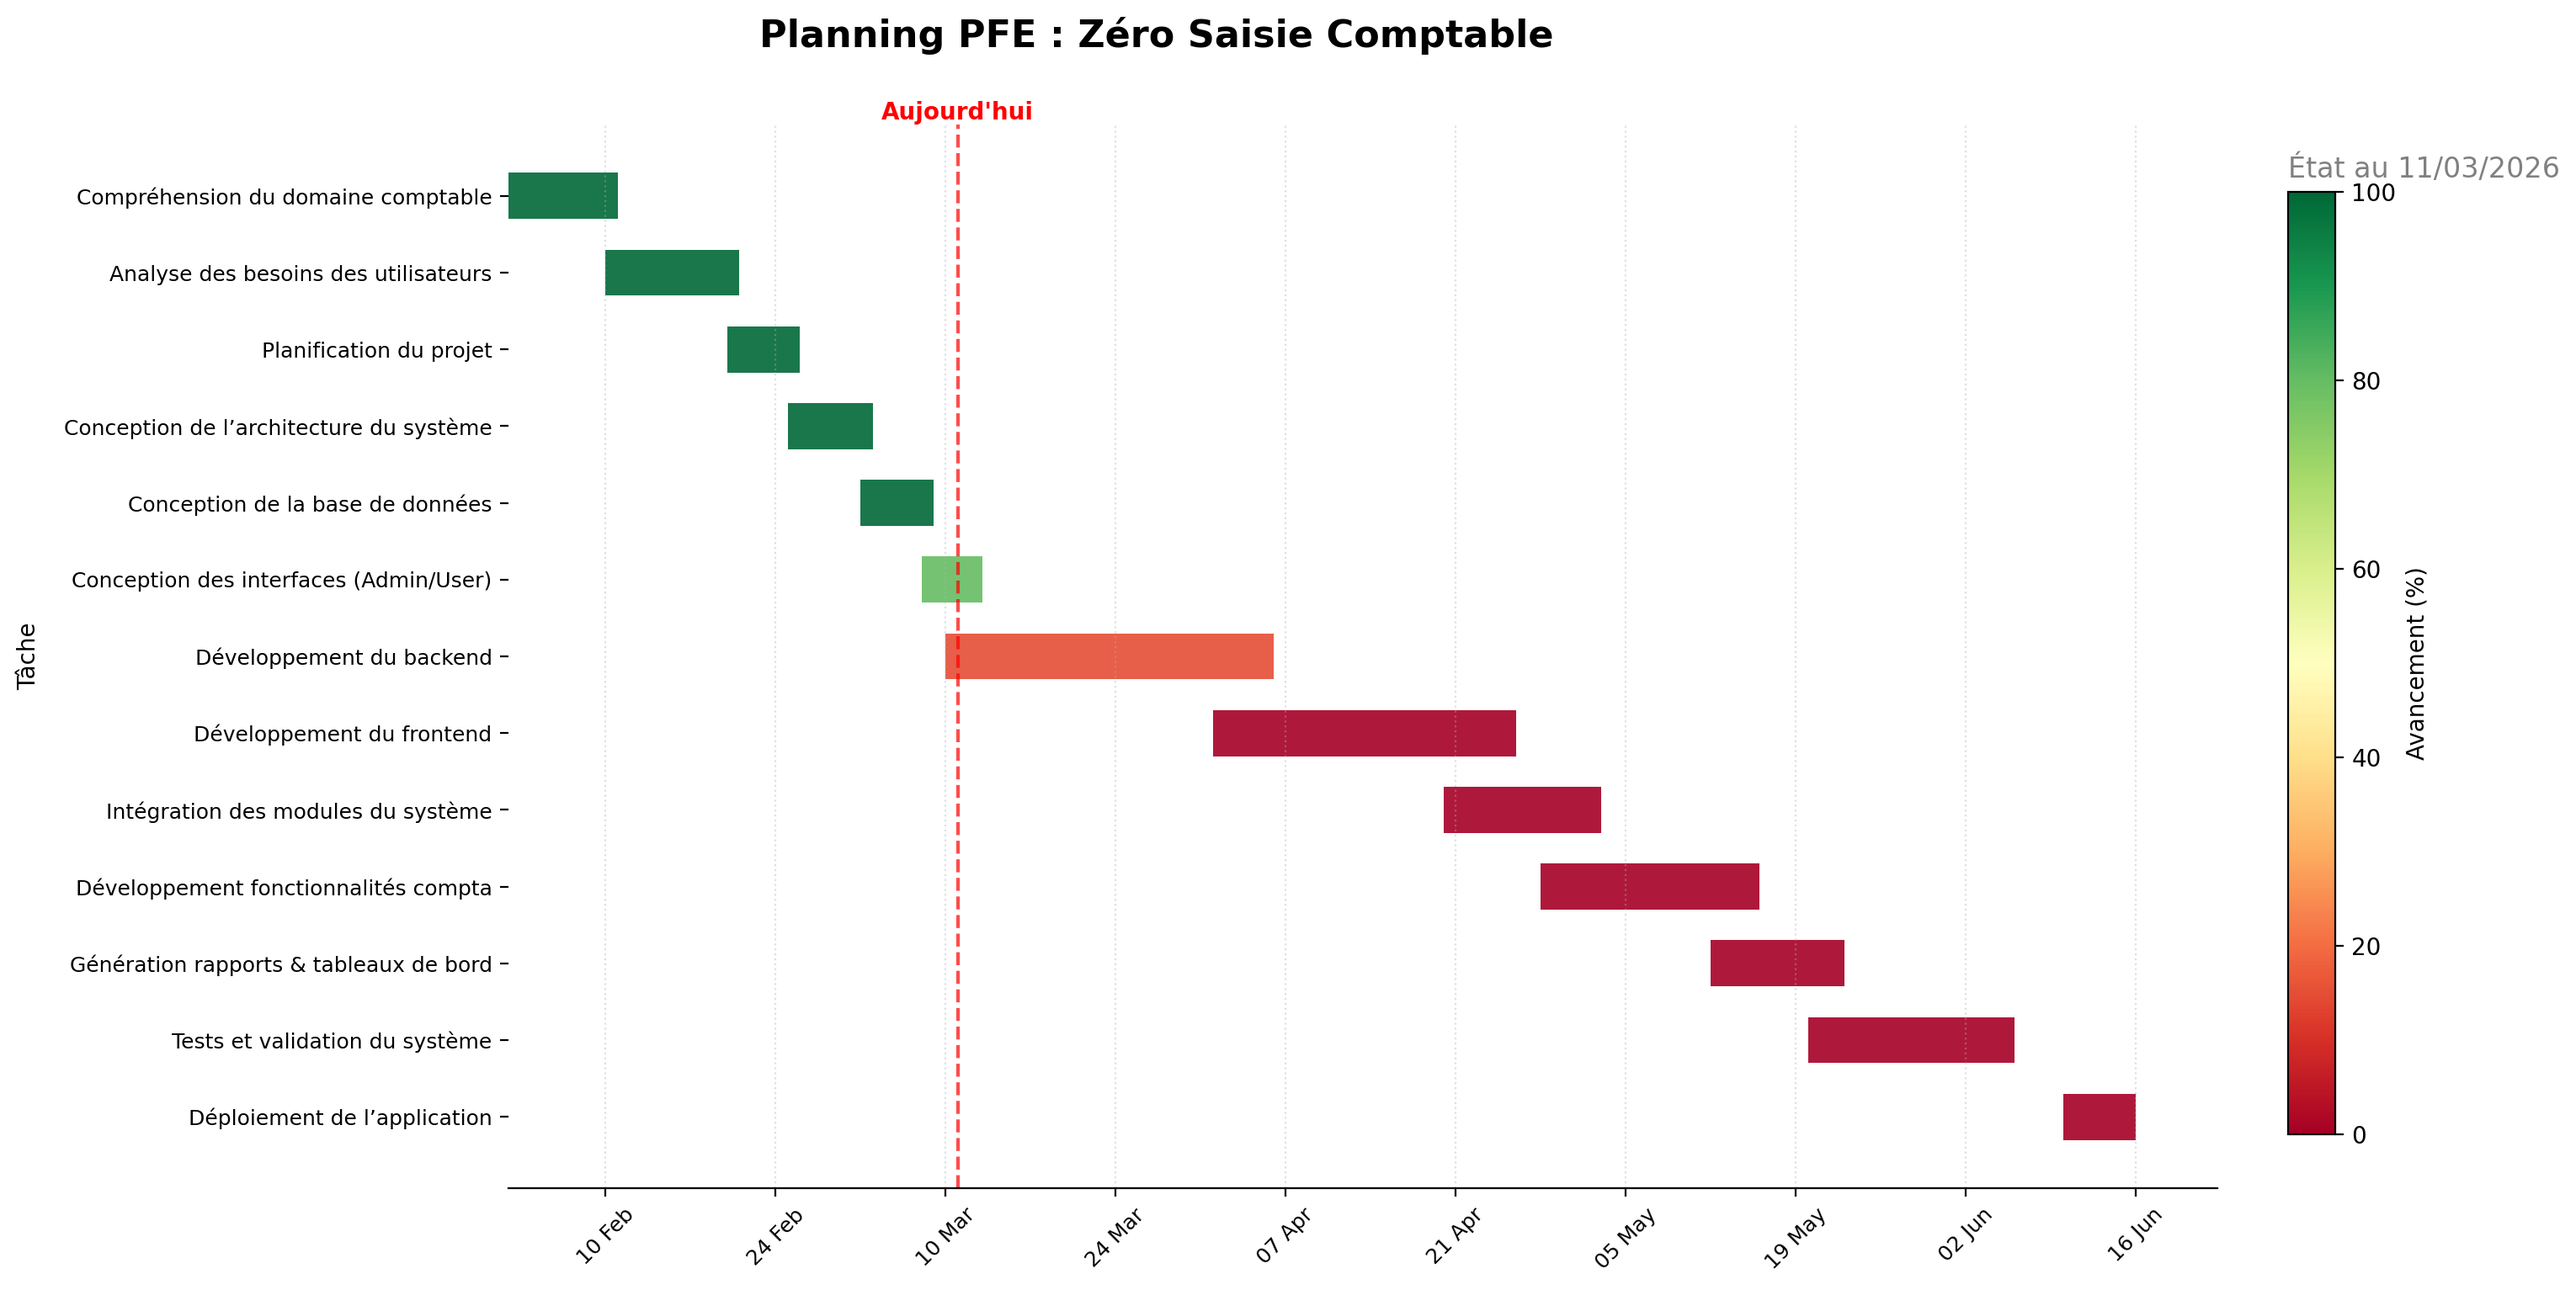
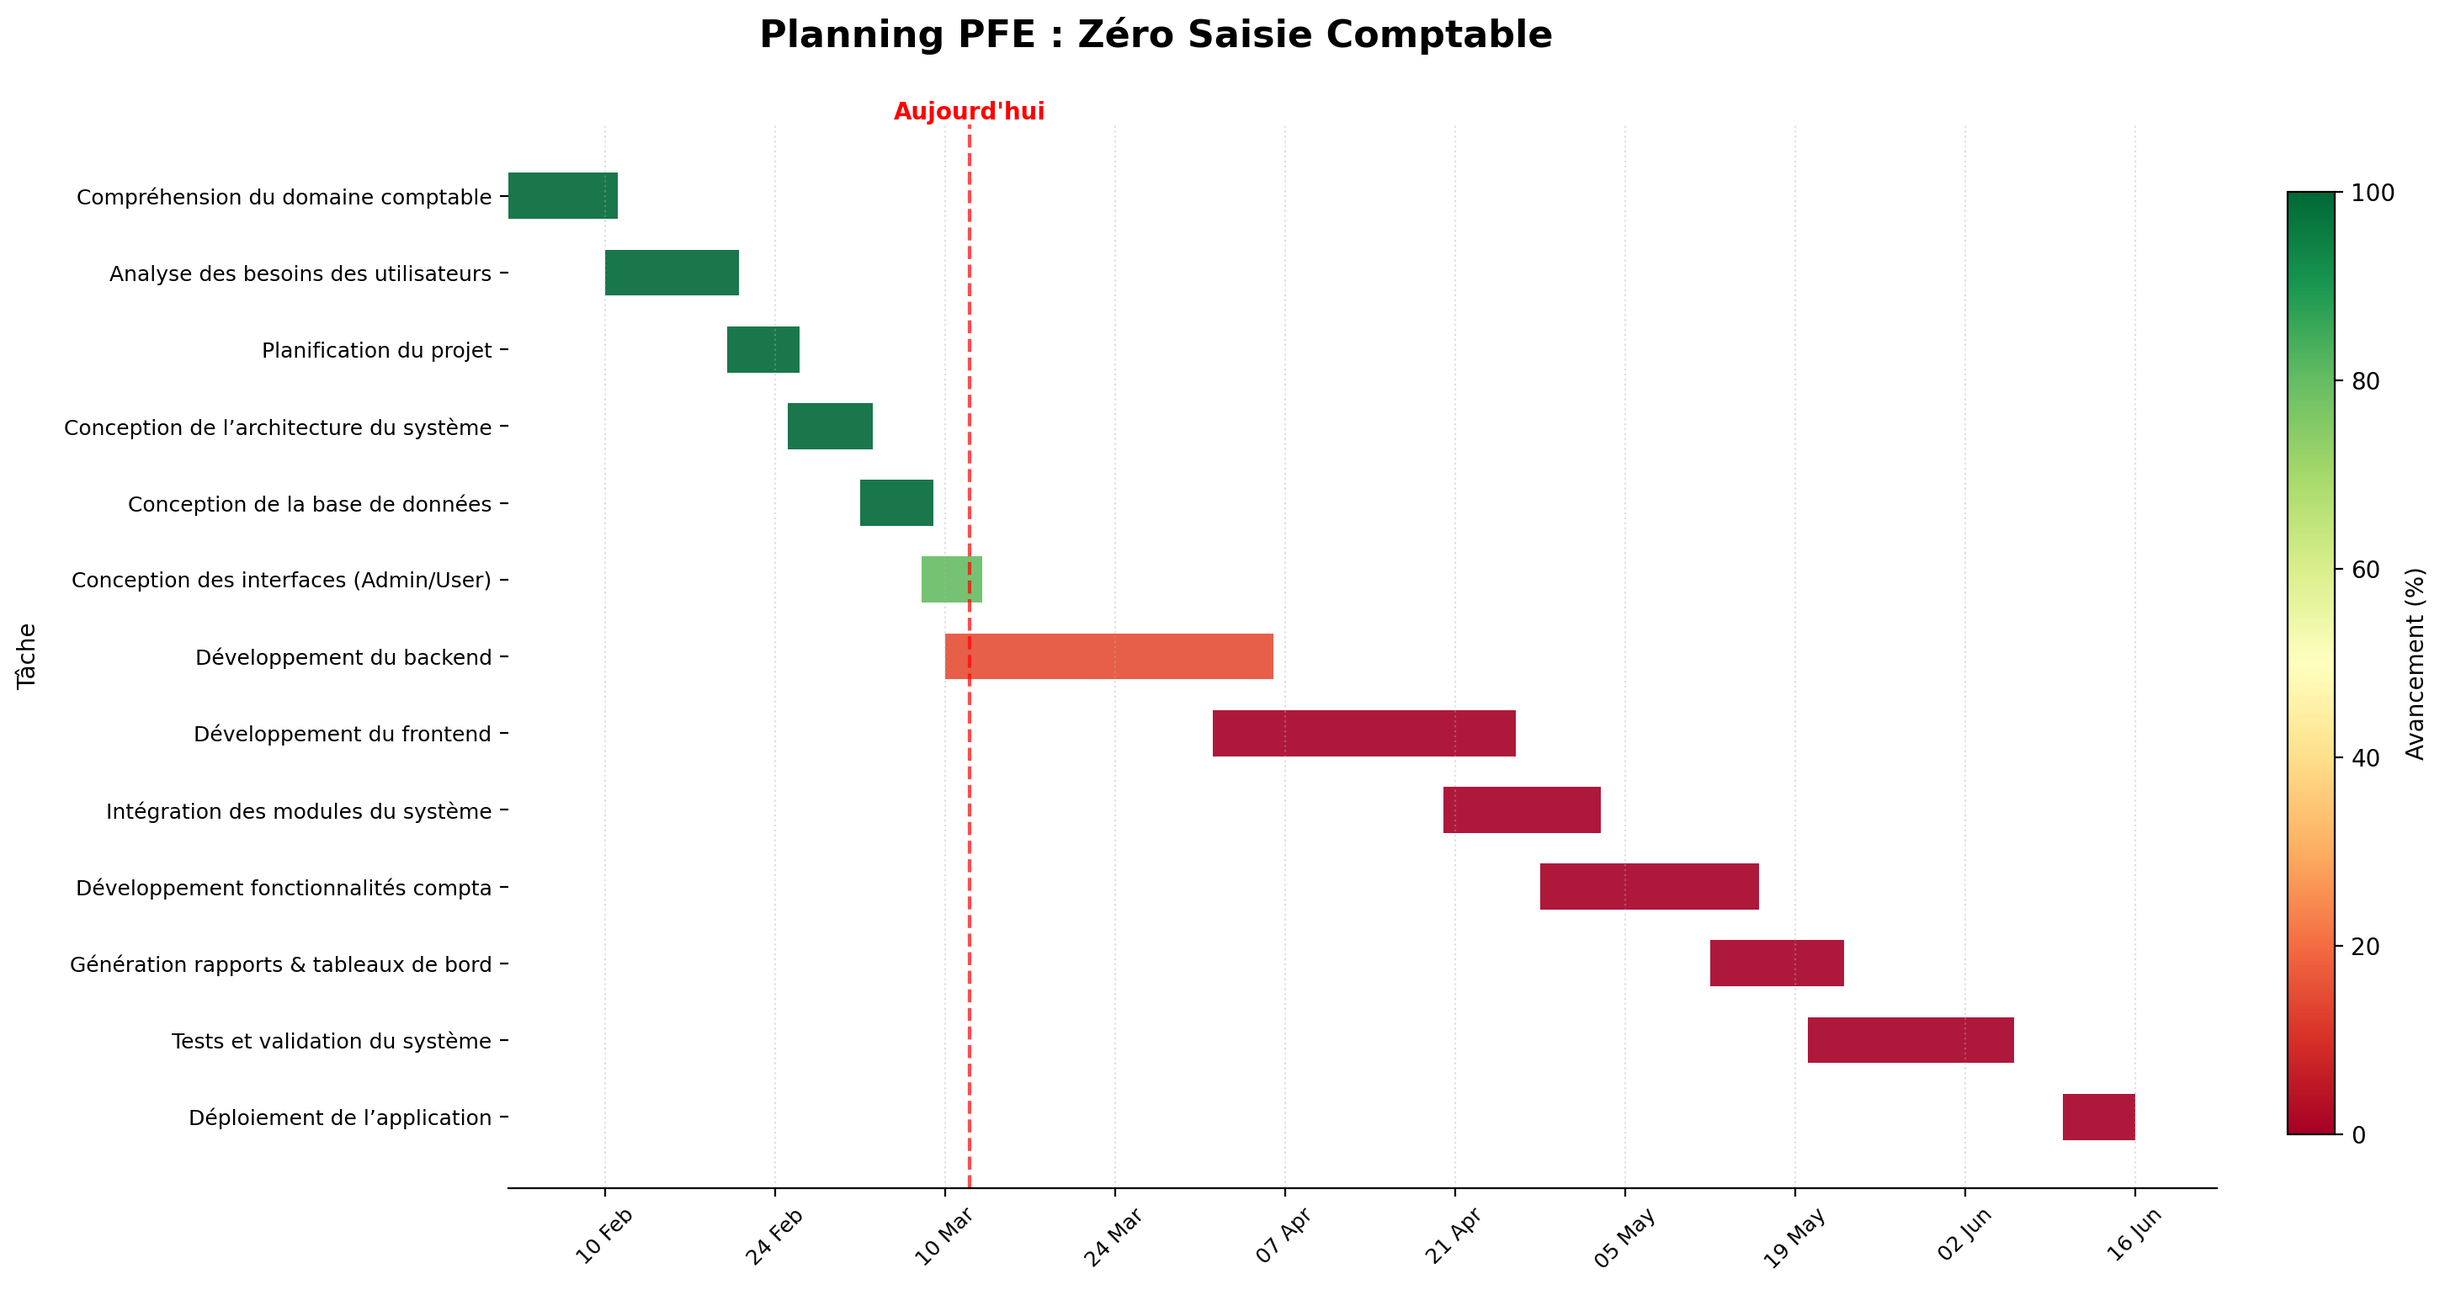
diagramme de gantt modifie

diff --git a/gantt_pfe.py b/gantt_pfe.py
@@ -1,7 +1,7 @@
 """
 Diagramme de Gantt — PFE Zéro Saisie Comptable
 Design : Heatmap de progression (Rouge -> Jaune -> Vert)
-Mise à jour : 11/03/2026
+Mise à jour : 12/03/2026
 """
 
 import matplotlib.pyplot as plt
@@ -11,7 +11,7 @@ import matplotlib.colors as mcolors
 from datetime import date, timedelta
 
 # ── CONFIG ────────────────────────────────────────────────────────────────
-TODAY = date(2026, 3, 11)  # <--- AUJOURD'HUI
+TODAY = date(2026, 3, 12)  # <--- AUJOURD'HUI
 START = date(2026, 2, 2)
 END   = date(2026, 6, 20)
 
@@ -89,7 +89,7 @@ ax.spines['right'].set_visible(False)
 ax.spines['left'].set_visible(False)
 
 plt.suptitle("Planning PFE : Zéro Saisie Comptable", fontsize=16, fontweight='bold', x=0.4)
-plt.title(f"État au {TODAY.strftime('%d/%m/%Y')}", fontsize=12, color='grey', loc='left')
+
 
 # Sauvegarde
 plt.savefig("gantt_pfe_v3.png", dpi=200, bbox_inches="tight")
